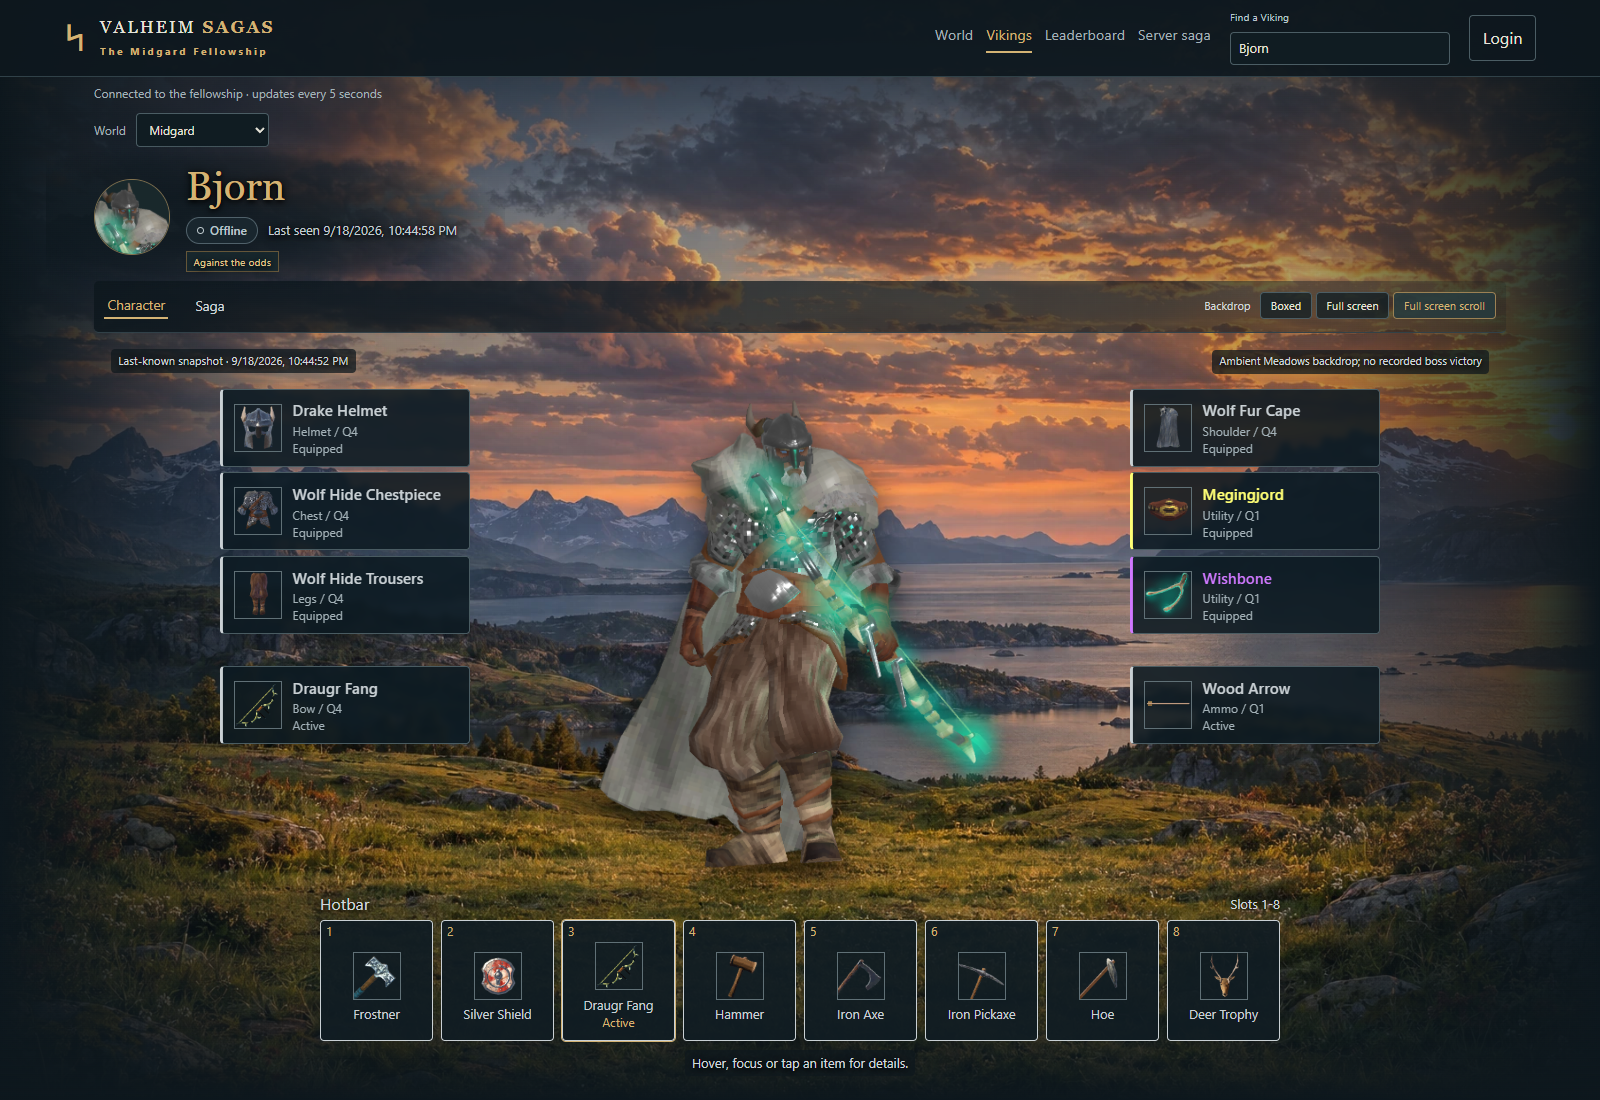
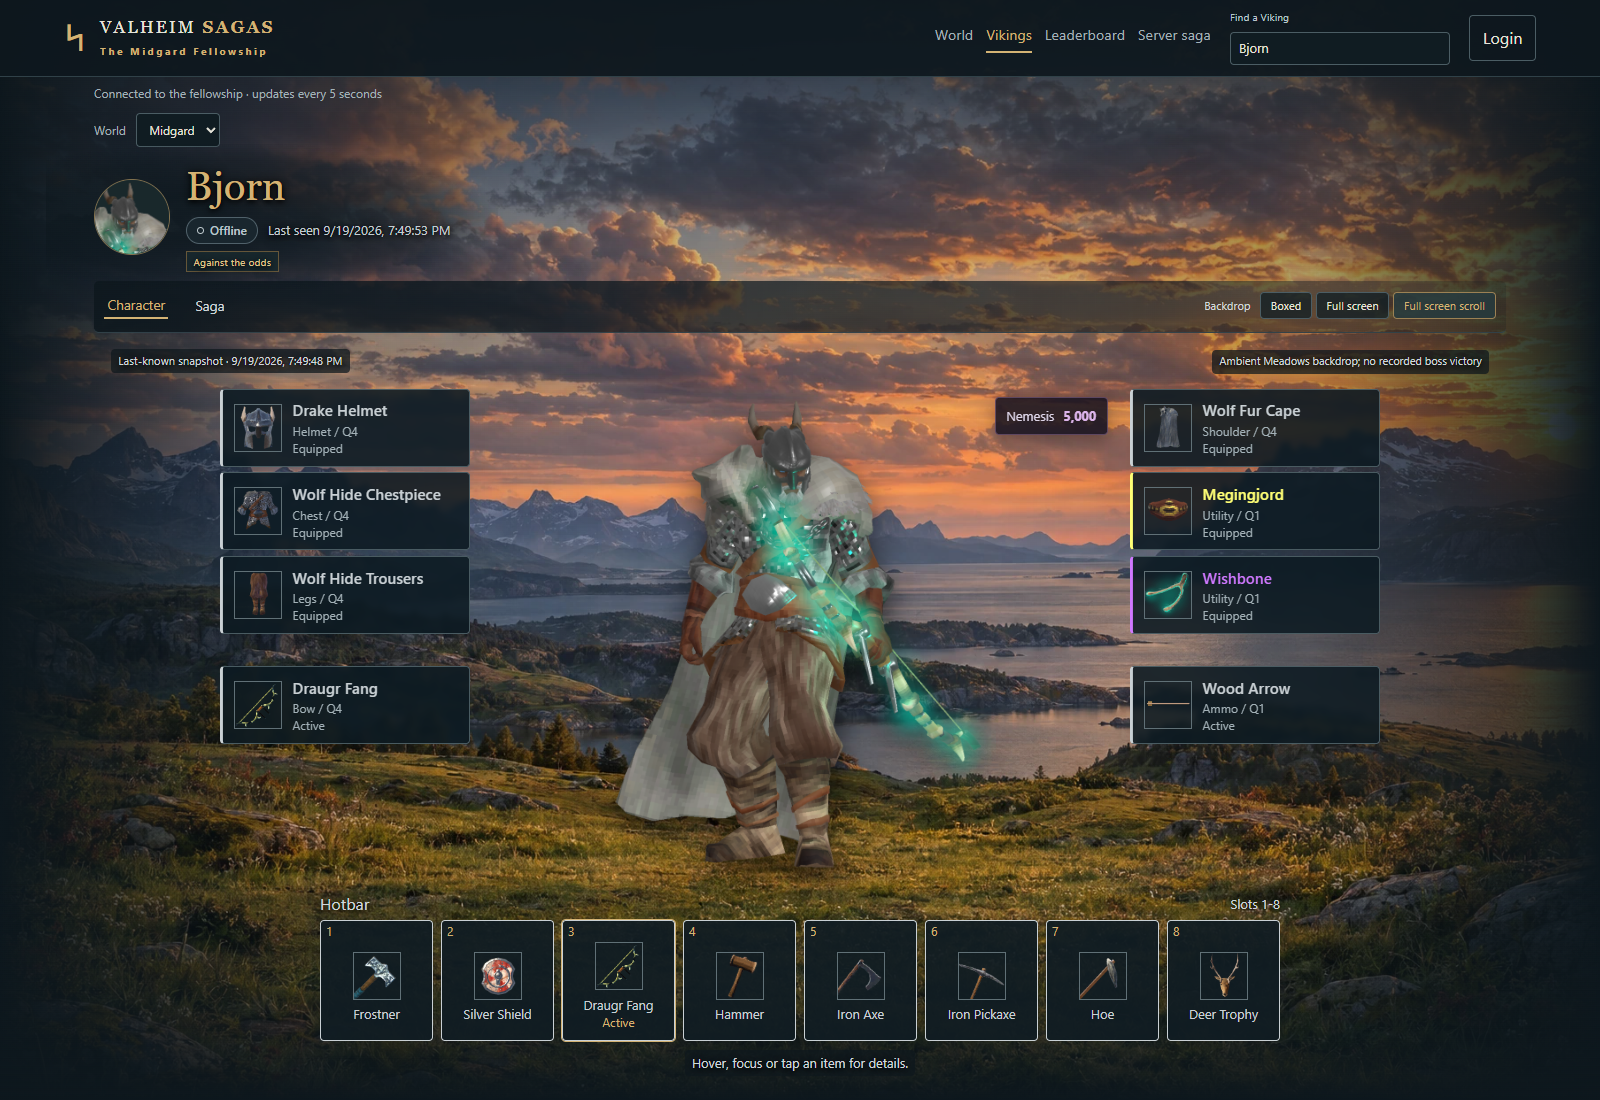
Refresh release screenshots with saved SLS and Nemesis data

diff --git a/README.md b/README.md
@@ -4,7 +4,7 @@
 
 Your adventures, remembered: a standalone Valheim mod with a server-hosted website, a living 2D atlas, character armories, leaderboards and optional AI-written sagas. No ValheimWebMap dependency.
 
-![Character armory with equipped Viking and biome scenery](https://raw.githubusercontent.com/pendulumgames/ValheimSagas/main/docs/screenshots/character.png)
+![Character armory with saved portrait, equipment and SLS Nemesis score](https://raw.githubusercontent.com/pendulumgames/ValheimSagas/main/docs/screenshots/character.png)
 
 ## Explore your fellowship
 
@@ -15,13 +15,13 @@ Your adventures, remembered: a standalone Valheim mod with a server-hosted websi
 - **Sagas:** persistent personal and server stories with a separate recorded-facts ledger. The host must configure OpenRouter first; no template stories are generated.
 - **Make it yours:** boxed, full-screen or full-screen scrolling scenery. Your personal login can select backgrounds up to your recorded boss progression; everyone sees the saved selection. New browsers default to full-screen scroll.
 
-![World Atlas, exploration and activity](https://raw.githubusercontent.com/pendulumgames/ValheimSagas/main/docs/screenshots/atlas.png)
+![World Atlas with SLS zone boundaries, a last-known Viking marker and Nemesis tooltip](https://raw.githubusercontent.com/pendulumgames/ValheimSagas/main/docs/screenshots/atlas.png)
 
 Statistics support all history, 30 minutes, 1/6/12 hours, 1/3/7 days and custom dates. Live presence and last-known equipment are independent of the selected time window. Drops, verified earned collections and unknown pickups remain distinct; repeat pickups and bonus loot rolls cannot create extra kills.
 
-![Server leaderboards](https://raw.githubusercontent.com/pendulumgames/ValheimSagas/main/docs/screenshots/leaderboard.png)
+![Server rankings including optional Nemesis boss kills](https://raw.githubusercontent.com/pendulumgames/ValheimSagas/main/docs/screenshots/leaderboard.png)
 
-Screenshots show an isolated copy of recorded playtest data, with display names replaced for publication. They are website captures, not evidence that every multiplayer integration has been verified.
+Screenshots show an isolated copy of recorded playtest data, with display names replaced for publication. The atlas includes a last-known player marker and the host's SLS boundaries clipped by exploration. The Nemesis leaderboard is shown honestly with no recorded victories yet. These are website captures, not evidence that every multiplayer integration has been verified.
 
 ## Install and open
 

diff --git a/docs/MOD-README.md b/docs/MOD-README.md
@@ -4,7 +4,7 @@
 
 Your adventures, remembered: a standalone Valheim mod with a server-hosted website, a living 2D atlas, character armories, leaderboards and optional AI-written sagas. No ValheimWebMap dependency.
 
-![Character armory with equipped Viking and biome scenery](https://raw.githubusercontent.com/pendulumgames/ValheimSagas/main/docs/screenshots/character.png)
+![Character armory with saved portrait, equipment and SLS Nemesis score](https://raw.githubusercontent.com/pendulumgames/ValheimSagas/main/docs/screenshots/character.png)
 
 ## Explore your fellowship
 
@@ -15,13 +15,13 @@ Your adventures, remembered: a standalone Valheim mod with a server-hosted websi
 - **Sagas:** persistent personal and server stories with a separate recorded-facts ledger. The host must configure OpenRouter first; no template stories are generated.
 - **Make it yours:** boxed, full-screen or full-screen scrolling scenery. Your personal login can select backgrounds up to your recorded boss progression; everyone sees the saved selection. New browsers default to full-screen scroll.
 
-![World Atlas, exploration and activity](https://raw.githubusercontent.com/pendulumgames/ValheimSagas/main/docs/screenshots/atlas.png)
+![World Atlas with SLS zone boundaries, a last-known Viking marker and Nemesis tooltip](https://raw.githubusercontent.com/pendulumgames/ValheimSagas/main/docs/screenshots/atlas.png)
 
 Statistics support all history, 30 minutes, 1/6/12 hours, 1/3/7 days and custom dates. Live presence and last-known equipment are independent of the selected time window. Drops, verified earned collections and unknown pickups remain distinct; repeat pickups and bonus loot rolls cannot create extra kills.
 
-![Server leaderboards](https://raw.githubusercontent.com/pendulumgames/ValheimSagas/main/docs/screenshots/leaderboard.png)
+![Server rankings including optional Nemesis boss kills](https://raw.githubusercontent.com/pendulumgames/ValheimSagas/main/docs/screenshots/leaderboard.png)
 
-Screenshots show an isolated copy of recorded playtest data, with display names replaced for publication. They are website captures, not evidence that every multiplayer integration has been verified.
+Screenshots show an isolated copy of recorded playtest data, with display names replaced for publication. The atlas includes a last-known player marker and the host's SLS boundaries clipped by exploration. The Nemesis leaderboard is shown honestly with no recorded victories yet. These are website captures, not evidence that every multiplayer integration has been verified.
 
 ## Install and open
 
